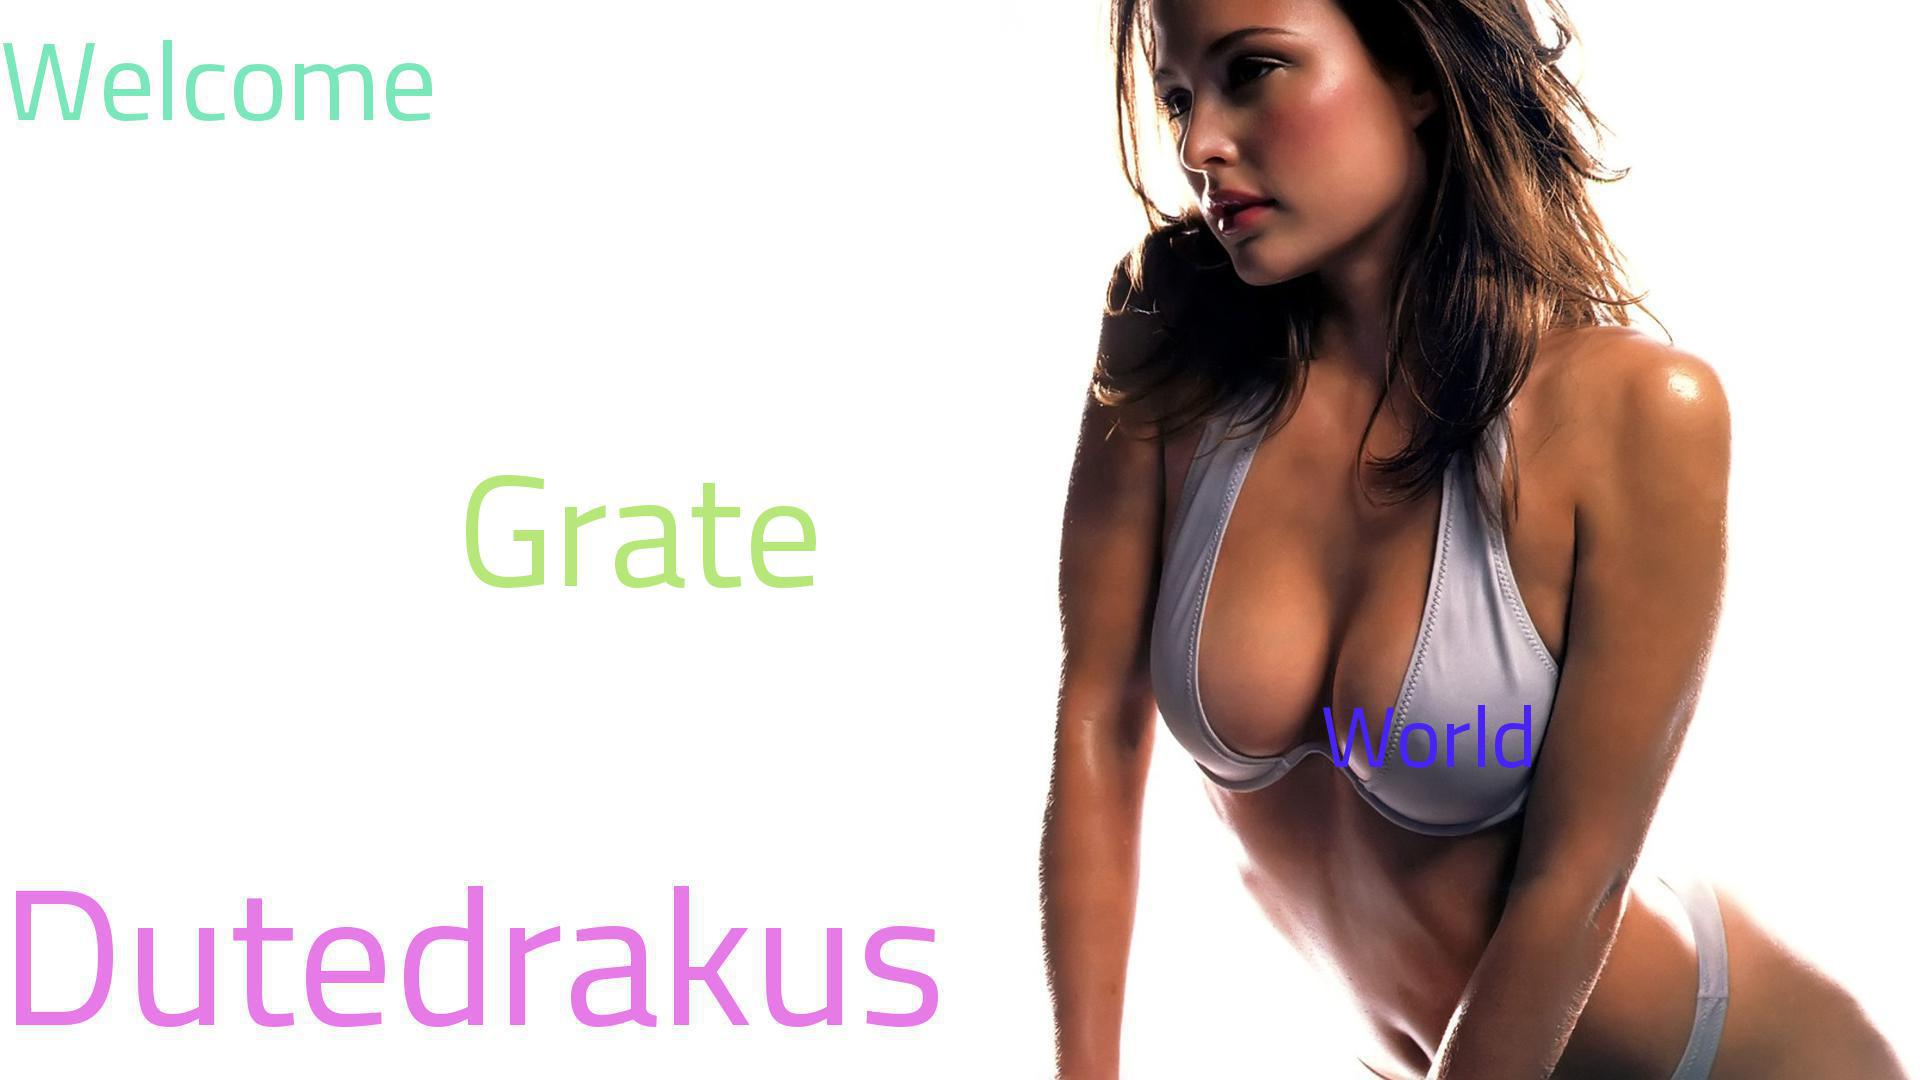
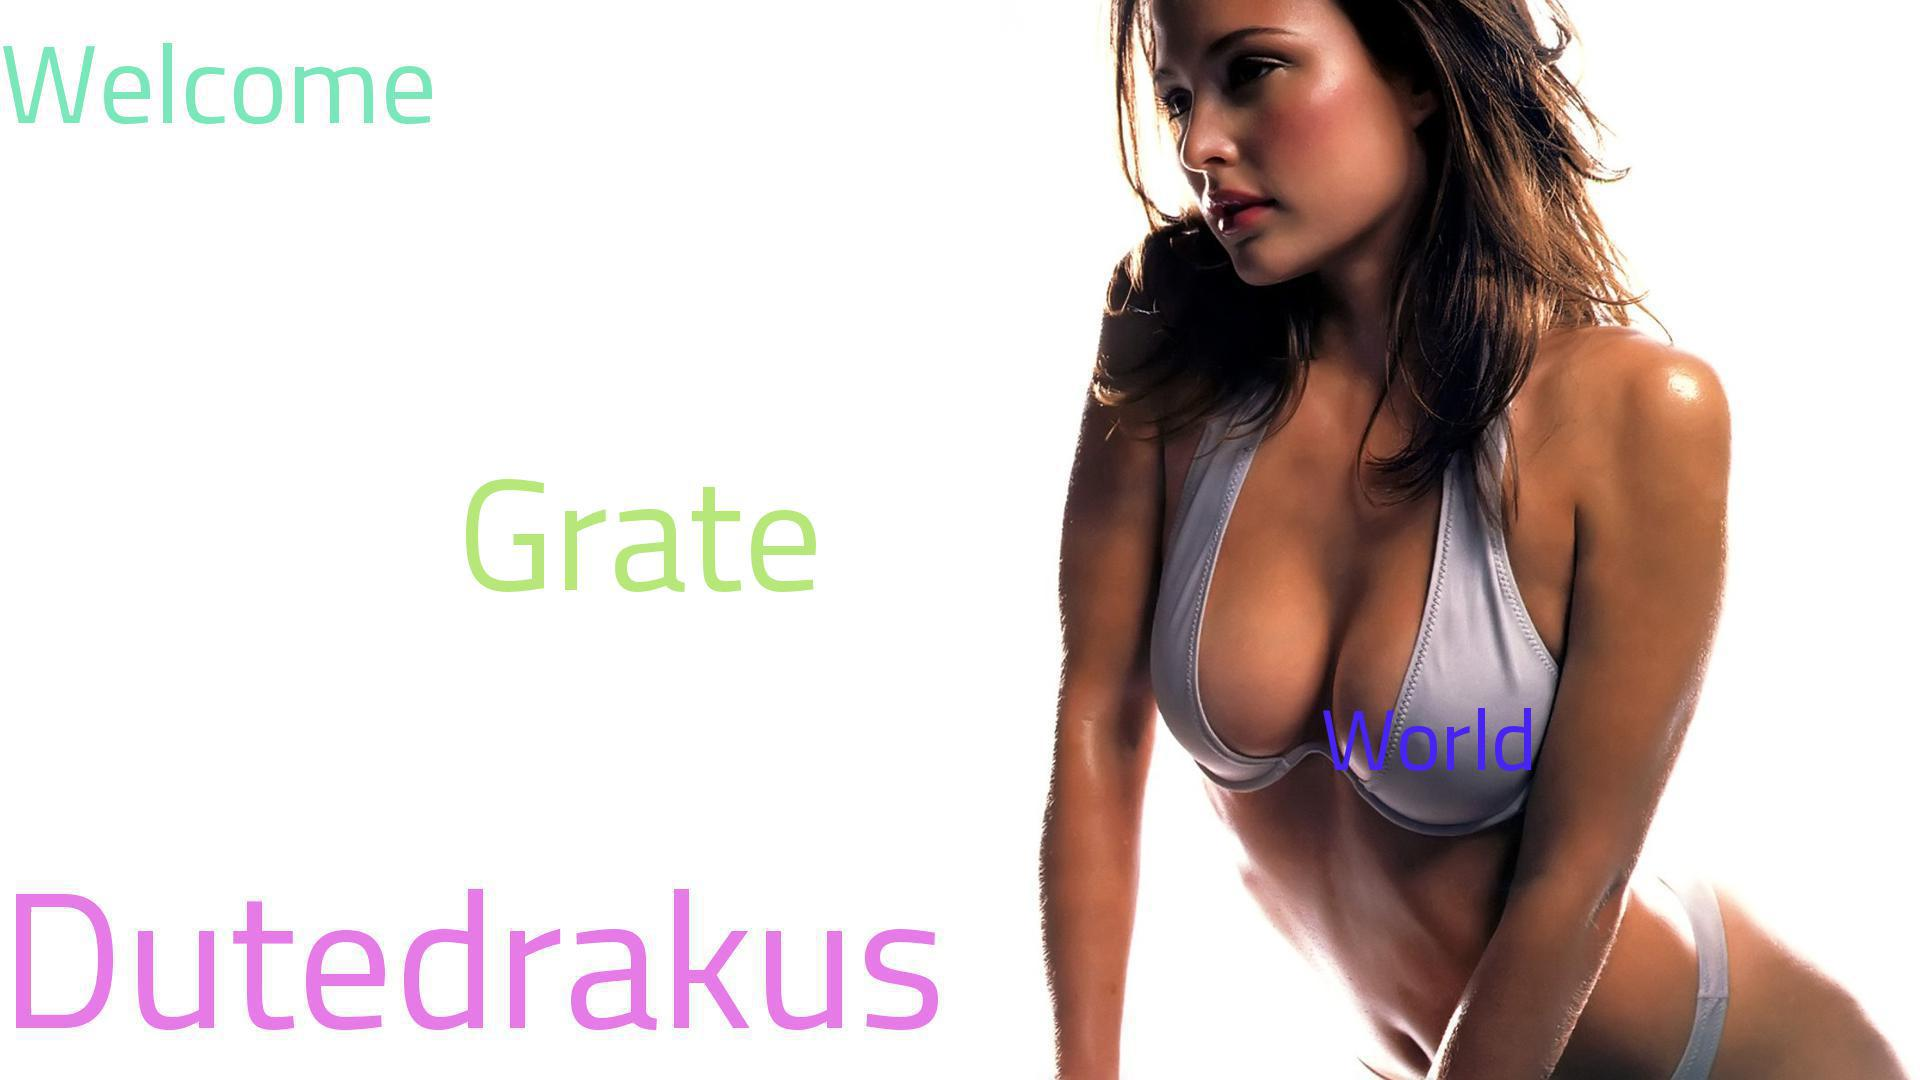
font size fix

diff --git a/interface/php/show.php b/interface/php/show.php
@@ -76,17 +76,16 @@ for ($i = 0; $i < $count; $i++) {
     * Top position
     * Top + font size = Top in GD
     **/
-    $top = $data['arry'][$i]['top']+$size+6;// here set top
-    //$top = $data['arry'][$i]['top']+$fsize;// here set top
+    $top = $data['arry'][$i]['top']+$size+8;// here set top
     $th = __getProcentFromNumber($top, $workH);//check
     $rx = __getNumberFromProcent($th, $height);//check
-    //$px = __getNumberFromProcent(24, $rx);
+    $px = __getNumberFromProcent(24, $rx);
     $x = $rx;
     //$x = $rx - $px;
     //$hh = __getProcentFromNumber(208, $x);
     //var_dump($hh);//
     //$x = $x - 47;
-    echo $inscription;
+    //echo $inscription;
     //var_dump($th);
     /**
     * Left position
@@ -104,7 +103,7 @@ for ($i = 0; $i < $count; $i++) {
     imagejpeg($handle, '../data/picture/'.$_COOKIE['PHPSESSID'].'-preview.jpg');
     imagedestroy($handle);
 }
-echo "<div id='preview-div'><img id='preview' width='1090' src=data/picture/".$_COOKIE['PHPSESSID']."-preview.jpg"."?mtime=".@filemtime($fileimg)." alt='Aby zacząć edycje prześlij obraz'/></div><br />\n";//@filemtime($fileimg) thanks this image is always refresh
+echo "<div id='preview-div'><img id='preview' width='".$workW."px' src=data/picture/".$_COOKIE['PHPSESSID']."-preview.jpg"."?mtime=".@filemtime($fileimg)." alt='Aby zacząć edycje prześlij obraz'/></div><br />\n";//@filemtime($fileimg) thanks this image is always refresh
 ?>
 <?php
 // $data = $_POST['data'];
